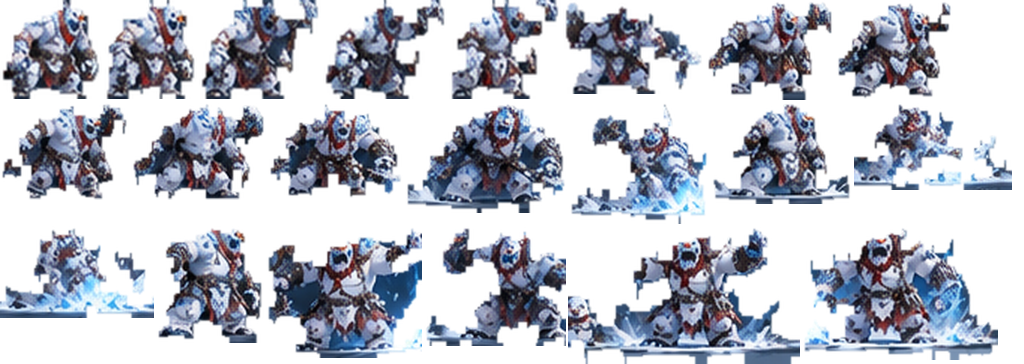
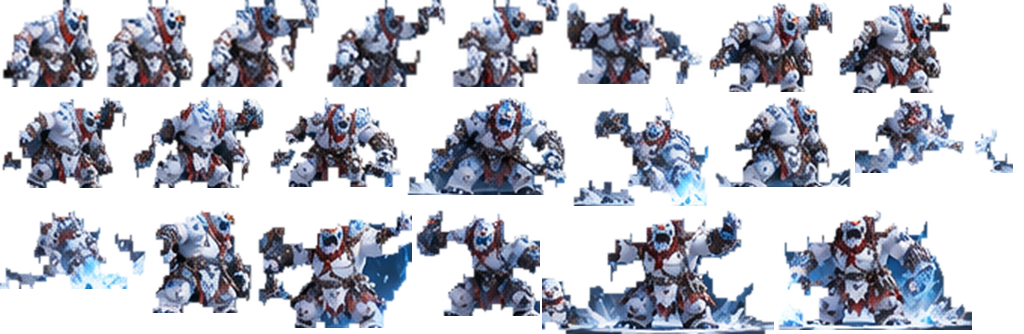
WIP2

diff --git a/assets/snowman_atlas.js b/assets/snowman_atlas.js
@@ -1,2 +1,2 @@
-window.SNOWMAN_ATLAS={"image": "assets/snowman_atlas.png", "source": "ref/snowman_sheet.png", "frames": {"idle_0": {"x": 0, "y": 0, "w": 88, "h": 99, "ax": 33, "ay": 98}, "idle_1": {"x": 90, "y": 0, "w": 96, "h": 93, "ax": 34, "ay": 92}, "idle_2": {"x": 188, "y": 0, "w": 99, "h": 94, "ax": 44, "ay": 93}, "idle_3": {"x": 289, "y": 0, "w": 87, "h": 96, "ax": 38, "ay": 94}, "idle_4": {"x": 378, "y": 0, "w": 104, "h": 94, "ax": 46, "ay": 93}, "idle_5": {"x": 484, "y": 0, "w": 90, "h": 99, "ax": 51, "ay": 98}, "walk_0": {"x": 576, "y": 0, "w": 78, "h": 99, "ax": 42, "ay": 96}, "walk_1": {"x": 656, "y": 0, "w": 93, "h": 110, "ax": 52, "ay": 108}, "walk_2": {"x": 751, "y": 0, "w": 76, "h": 99, "ax": 42, "ay": 96}, "walk_3": {"x": 829, "y": 0, "w": 105, "h": 110, "ax": 63, "ay": 102}, "walk_4": {"x": 0, "y": 112, "w": 92, "h": 100, "ax": 56, "ay": 98}, "walk_5": {"x": 94, "y": 112, "w": 98, "h": 110, "ax": 51, "ay": 108}, "attack_0": {"x": 194, "y": 112, "w": 104, "h": 112, "ax": 50, "ay": 108}, "attack_1": {"x": 300, "y": 112, "w": 146, "h": 114, "ax": 80, "ay": 112}, "throw_0": {"x": 448, "y": 112, "w": 117, "h": 111, "ax": 60, "ay": 110}, "throw_1": {"x": 567, "y": 112, "w": 118, "h": 105, "ax": 66, "ay": 104}, "throw_2": {"x": 687, "y": 112, "w": 120, "h": 105, "ax": 58, "ay": 104}, "throw_3": {"x": 809, "y": 112, "w": 135, "h": 111, "ax": 64, "ay": 110}, "death_0": {"x": 0, "y": 228, "w": 130, "h": 100, "ax": 80, "ay": 96}, "death_1": {"x": 132, "y": 228, "w": 116, "h": 84, "ax": 48, "ay": 82}, "death_2": {"x": 250, "y": 228, "w": 134, "h": 92, "ax": 66, "ay": 86}, "death_3": {"x": 386, "y": 228, "w": 153, "h": 74, "ax": 82, "ay": 68}, "death_4": {"x": 541, "y": 228, "w": 196, "h": 80, "ax": 98, "ay": 78}, "snowball": {"x": 739, "y": 228, "w": 100, "h": 106, "ax": 51, "ay": 54}, "iceblock": {"x": 841, "y": 228, "w": 128, "h": 122, "ax": 62, "ay": 60}}, "anims": {"idle": ["idle_0", "idle_1", "idle_2", "idle_3", "idle_4", "idle_5"], "walk": ["walk_0", "walk_1", "walk_2", "walk_3", "walk_4", "walk_5"], "attack": ["attack_0", "attack_1"], "throw": ["throw_0", "throw_1", "throw_2", "throw_3"], "death": ["death_0", "death_1", "death_2", "death_3", "death_4"], "hurt": ["death_0"]}};
-window.SNOWBOSS_ATLAS={"image": "assets/snowboss_atlas.png", "source": "ref/snowman_sheet.png", "frames": {"idle_0": {"x": 0, "y": 0, "w": 102, "h": 99, "ax": 53, "ay": 97}, "idle_1": {"x": 104, "y": 0, "w": 93, "h": 99, "ax": 46, "ay": 97}, "idle_2": {"x": 199, "y": 0, "w": 122, "h": 99, "ax": 51, "ay": 97}, "idle_3": {"x": 323, "y": 0, "w": 124, "h": 99, "ax": 47, "ay": 97}, "idle_4": {"x": 449, "y": 0, "w": 112, "h": 99, "ax": 44, "ay": 97}, "idle_5": {"x": 563, "y": 0, "w": 141, "h": 94, "ax": 63, "ay": 93}, "walk_0": {"x": 706, "y": 0, "w": 128, "h": 100, "ax": 58, "ay": 99}, "walk_1": {"x": 836, "y": 0, "w": 117, "h": 99, "ax": 54, "ay": 94}, "walk_2": {"x": 0, "y": 102, "w": 129, "h": 98, "ax": 62, "ay": 94}, "walk_3": {"x": 131, "y": 102, "w": 135, "h": 98, "ax": 62, "ay": 94}, "walk_4": {"x": 268, "y": 102, "w": 135, "h": 96, "ax": 69, "ay": 92}, "attack_0": {"x": 405, "y": 102, "w": 162, "h": 111, "ax": 92, "ay": 105}, "attack_1": {"x": 569, "y": 102, "w": 140, "h": 122, "ax": 93, "ay": 116}, "shock_0": {"x": 711, "y": 102, "w": 141, "h": 102, "ax": 70, "ay": 100}, "shock_1": {"x": 854, "y": 102, "w": 158, "h": 88, "ax": 58, "ay": 87}, "shock_2": {"x": 0, "y": 226, "w": 154, "h": 92, "ax": 75, "ay": 90}, "throw_0": {"x": 156, "y": 226, "w": 108, "h": 117, "ax": 58, "ay": 116}, "throw_1": {"x": 266, "y": 226, "w": 156, "h": 132, "ax": 78, "ay": 130}, "throw_2": {"x": 424, "y": 226, "w": 142, "h": 120, "ax": 99, "ay": 118}, "summon_0": {"x": 568, "y": 226, "w": 232, "h": 138, "ax": 117, "ay": 136}, "summon_1": {"x": 802, "y": 226, "w": 196, "h": 134, "ax": 98, "ay": 126}}, "anims": {"idle": ["idle_0", "idle_1", "idle_2", "idle_3", "idle_4", "idle_5"], "walk": ["walk_0", "walk_1", "walk_2", "walk_3", "walk_4"], "attack": ["attack_0", "attack_1"], "shock": ["shock_0", "shock_1", "shock_2"], "throw": ["throw_0", "throw_1", "throw_2"], "summon": ["summon_0", "summon_1"], "hurt": ["shock_0"], "death": ["shock_0"]}};
+window.SNOWMAN_ATLAS={"image": "assets/snowman_atlas.png", "source": "ref/snowman_sheet.png", "frames": {"idle_0": {"x": 0, "y": 0, "w": 88, "h": 99, "ax": 33, "ay": 98}, "idle_1": {"x": 90, "y": 0, "w": 96, "h": 93, "ax": 34, "ay": 92}, "idle_2": {"x": 188, "y": 0, "w": 99, "h": 94, "ax": 44, "ay": 93}, "idle_3": {"x": 289, "y": 0, "w": 87, "h": 96, "ax": 38, "ay": 94}, "idle_4": {"x": 378, "y": 0, "w": 104, "h": 94, "ax": 46, "ay": 93}, "idle_5": {"x": 484, "y": 0, "w": 90, "h": 99, "ax": 51, "ay": 98}, "walk_0": {"x": 576, "y": 0, "w": 78, "h": 99, "ax": 42, "ay": 96}, "walk_1": {"x": 656, "y": 0, "w": 93, "h": 110, "ax": 52, "ay": 108}, "walk_2": {"x": 751, "y": 0, "w": 76, "h": 99, "ax": 42, "ay": 96}, "walk_3": {"x": 829, "y": 0, "w": 105, "h": 110, "ax": 63, "ay": 102}, "walk_4": {"x": 0, "y": 112, "w": 92, "h": 100, "ax": 56, "ay": 98}, "walk_5": {"x": 94, "y": 112, "w": 98, "h": 110, "ax": 51, "ay": 108}, "attack_0": {"x": 194, "y": 112, "w": 104, "h": 112, "ax": 50, "ay": 108}, "attack_1": {"x": 300, "y": 112, "w": 146, "h": 114, "ax": 81, "ay": 112}, "throw_0": {"x": 448, "y": 112, "w": 117, "h": 111, "ax": 62, "ay": 110}, "throw_1": {"x": 567, "y": 112, "w": 118, "h": 105, "ax": 66, "ay": 104}, "throw_2": {"x": 687, "y": 112, "w": 120, "h": 105, "ax": 58, "ay": 104}, "throw_3": {"x": 809, "y": 112, "w": 135, "h": 111, "ax": 64, "ay": 110}, "death_0": {"x": 0, "y": 228, "w": 130, "h": 100, "ax": 80, "ay": 96}, "death_1": {"x": 132, "y": 228, "w": 116, "h": 84, "ax": 48, "ay": 82}, "death_2": {"x": 250, "y": 228, "w": 134, "h": 92, "ax": 66, "ay": 86}, "death_3": {"x": 386, "y": 228, "w": 153, "h": 74, "ax": 82, "ay": 68}, "death_4": {"x": 541, "y": 228, "w": 196, "h": 80, "ax": 98, "ay": 78}, "snowball": {"x": 739, "y": 228, "w": 100, "h": 106, "ax": 51, "ay": 54}, "iceblock": {"x": 841, "y": 228, "w": 128, "h": 122, "ax": 62, "ay": 60}}, "anims": {"idle": ["idle_0", "idle_1", "idle_2", "idle_3", "idle_4", "idle_5"], "walk": ["walk_0", "walk_1", "walk_2", "walk_3", "walk_4", "walk_5"], "attack": ["attack_0", "attack_1"], "throw": ["throw_0", "throw_1", "throw_2", "throw_3"], "death": ["death_0", "death_1", "death_2", "death_3", "death_4"], "hurt": ["death_0"]}};
+window.SNOWBOSS_ATLAS={"image": "assets/snowboss_atlas.png", "source": "ref/snowman_sheet.png", "frames": {"idle_0": {"x": 0, "y": 0, "w": 102, "h": 87, "ax": 53, "ay": 86}, "idle_1": {"x": 104, "y": 0, "w": 92, "h": 87, "ax": 44, "ay": 86}, "idle_2": {"x": 198, "y": 0, "w": 124, "h": 87, "ax": 51, "ay": 86}, "idle_3": {"x": 324, "y": 0, "w": 124, "h": 87, "ax": 47, "ay": 86}, "idle_4": {"x": 450, "y": 0, "w": 112, "h": 87, "ax": 44, "ay": 86}, "idle_5": {"x": 564, "y": 0, "w": 141, "h": 84, "ax": 63, "ay": 82}, "walk_0": {"x": 707, "y": 0, "w": 128, "h": 92, "ax": 57, "ay": 90}, "walk_1": {"x": 837, "y": 0, "w": 117, "h": 93, "ax": 54, "ay": 92}, "walk_2": {"x": 0, "y": 95, "w": 129, "h": 93, "ax": 62, "ay": 92}, "walk_3": {"x": 131, "y": 95, "w": 135, "h": 93, "ax": 68, "ay": 92}, "walk_4": {"x": 268, "y": 95, "w": 135, "h": 92, "ax": 70, "ay": 90}, "attack_0": {"x": 405, "y": 95, "w": 164, "h": 100, "ax": 90, "ay": 99}, "attack_1": {"x": 571, "y": 95, "w": 140, "h": 111, "ax": 92, "ay": 110}, "shock_0": {"x": 713, "y": 95, "w": 140, "h": 92, "ax": 70, "ay": 90}, "shock_1": {"x": 855, "y": 95, "w": 158, "h": 78, "ax": 64, "ay": 76}, "shock_2": {"x": 0, "y": 208, "w": 148, "h": 81, "ax": 76, "ay": 80}, "throw_0": {"x": 150, "y": 208, "w": 104, "h": 105, "ax": 54, "ay": 104}, "throw_1": {"x": 256, "y": 208, "w": 156, "h": 120, "ax": 86, "ay": 118}, "throw_2": {"x": 414, "y": 208, "w": 126, "h": 108, "ax": 82, "ay": 106}, "summon_0": {"x": 542, "y": 208, "w": 232, "h": 126, "ax": 118, "ay": 124}, "summon_1": {"x": 776, "y": 208, "w": 196, "h": 122, "ax": 93, "ay": 120}}, "anims": {"idle": ["idle_0", "idle_1", "idle_2", "idle_3", "idle_4", "idle_5"], "walk": ["walk_0", "walk_1", "walk_2", "walk_3", "walk_4"], "attack": ["attack_0", "attack_1"], "shock": ["shock_0", "shock_1", "shock_2"], "throw": ["throw_0", "throw_1", "throw_2"], "summon": ["summon_0", "summon_1"], "hurt": ["shock_0"], "death": ["shock_0"]}};

diff --git a/ref/snow3.py b/ref/snow3.py
@@ -1,0 +1,81 @@
+import sys;sys.path.insert(0,'/workspace/sp')
+from snow2 import *
+CELLS={
+ 'm':{'idle':[(108,171),(189,263),(279,351),(367,440),(460,540),(560,627)],'_y_idle':(616,682),
+      'walk':[(92,161),(186,257),(280,354),(358,437),(453,528),(561,634)],'_y_walk':(684,757),
+      'attack':[(124,212),(470,575)],'_y_attack':(762,843),
+      'throw':[(108,190),(193,283),(283,368),(368,462)],'_y_throw':(850,924),
+      'death':[(132,224),(232,320),(320,420),(420,532),(536,686)],'_y_death':(930,1000)},
+ 'b':{'idle':[(838,917),(938,1007),(1023,1112),(1108,1192),(1196,1274),(1273,1370)],'_y_idle':(517,567),
+      'walk':[(832,930),(930,1019),(1020,1112),(1240,1337),(1338,1440)],'_y_walk':(575,643),
+      'attack':[(1235,1355),(1355,1480)],'_y_attack':(650,726),
+      'shock':[(945,1060),(1060,1165),(1165,1268)],'_y_shock':(734,805),
+      'throw':[(835,927),(925,1032),(1030,1140)],'_y_throw':(814,902),
+      'summon':[(995,1150),(1158,1305)],'_y_summon':(912,1002)}}
+FXS={'snowball':(330,405,470,548),'iceblock':(215,310,460,550)}
+FXCUT=55;KF=150;KB=170
+def extract(x0,x1,y0,y1,keepfx=False):
+  crop,m,dist,fx=seg(x0,x1,y0,y1,999 if keepfx else FXCUT)
+  if keepfx:
+    L=crop.mean(2);m=((L>KF)|(crop[...,2]>KB)).astype(np.uint8);m=cv2.morphologyEx(m,cv2.MORPH_OPEN,np.ones((2,2),np.uint8));m=cv2.morphologyEx(m,cv2.MORPH_CLOSE,np.ones((5,5),np.uint8))
+    inv=(1-m).astype(np.uint8);n,lab=cv2.connectedComponents(inv);border=np.unique(np.concatenate([lab[0],lab[-1],lab[:,0],lab[:,-1]]));m[(inv==1)&~np.isin(lab,border)]=1
+  else:
+    m=m&cv2.morphologyEx(m,cv2.MORPH_OPEN,np.ones((5,1),np.uint8))
+    fill=((m>0)&~((dist>32)&~fx)&(dist<20)).astype(np.uint8)
+    n2,l2,st2,_=cv2.connectedComponentsWithStats(fill)
+    for i in range(1,n2):
+      if st2[i][4]>90:m[l2==i]=0
+  n,lab,st,_=cv2.connectedComponentsWithStats(m)
+  if n<2:return None
+  big=max(range(1,n),key=lambda i:st[i][4])
+  keep=np.isin(lab,[i for i in range(1,n) if i==big or st[i][4]>(.02 if keepfx else .05)*st[big][4]])
+  al=keep.astype(np.float32);al=cv2.erode(al,np.ones((2,2),np.uint8));al=cv2.GaussianBlur(al,(3,3),.6)
+  inner=cv2.erode(keep.astype(np.uint8),np.ones((3,3),np.uint8));bl=cv2.blur(crop*inner[...,None],(5,5));wb=cv2.blur(inner.astype(np.float32),(5,5))
+  col=crop.copy();edge=(al>0)&(inner==0)&(wb>.05);col[edge]=bl[edge]/wb[edge][:,None]*.6+crop[edge]*.4
+  ys,xs=np.where(al>.5);top,foot=ys.min(),ys.max();lx,rx=xs.min(),xs.max();hh=foot-top
+  mid=xs[(ys>top+.35*hh)&(ys<top+.75*hh)];cx=int(np.median(mid))
+  if keepfx:cx=(lx+rx)//2
+  # foot: lowest row with substantial mass (ignore flecks)
+  rows=(al>.5).sum(1);fr=np.where(rows>max(3,.15*rows.max()))[0];foot2=fr.max()
+  if keepfx:foot2=(top+foot)//2
+  T,Bt,Lx,Rx=max(0,top-2),min(al.shape[0],foot+2),max(0,lx-2),min(al.shape[1],rx+3)
+  rgba=np.dstack([col,al*255]).astype(np.uint8)[T:Bt,Lx:Rx]
+  return rgba,cx-Lx,foot2-T
+def build(key,name,scale=1.0):
+  frames={};anims={};imgs=[]
+  C=CELLS[key]
+  for an,lst in C.items():
+    if an.startswith('_'):continue
+    y0,y1=C['_y_'+an]
+    for i,(a,b) in enumerate(lst):
+      r=extract(a,b,y0,y1);
+      if r is None:continue
+      if key=='b' and an=='idle':
+        t=Image.fromarray(r[0]);k=1.17;t=t.resize((round(t.width*k),round(t.height*k)),Image.LANCZOS);r=(np.array(t),r[1]*k,r[2]*k)
+      imgs.append((f'{an}_{i}',)+r);anims.setdefault(an,[]).append(f'{an}_{i}')
+  for k,(a,b,y0,y1) in FXS.items():
+    if key=='m':
+      r=extract(a,b,y0,y1,keepfx=True);imgs.append((k,)+r)
+  W=1024;x=y=rowh=0;pos=[]
+  for k,img,ax,ay in imgs:
+    t=Image.fromarray(img)
+    if scale!=1:t=t.resize((round(t.width*scale),round(t.height*scale)),Image.LANCZOS);ax*=scale;ay*=scale
+    if x+t.width+2>W:x=0;y+=rowh+2;rowh=0
+    pos.append((t,x,y));frames[k]=dict(x=x,y=y,w=t.width,h=t.height,ax=int(round(ax)),ay=int(round(ay)));x+=t.width+2;rowh=max(rowh,t.height)
+  at=Image.new('RGBA',(W,y+rowh));[at.paste(t,(x,y)) for t,x,y in pos]
+  at.save(f'/workspace/game/assets/{name}_atlas.png',optimize=True)
+  return {'image':f'assets/{name}_atlas.png','source':'ref/snowman_sheet.png','frames':frames,'anims':anims}
+if __name__=='__main__':
+  A=build('m','snowman',1.5);Bo=build('b','snowboss',1.5)
+  A['anims']['hurt']=['death_0'];Bo['anims']['hurt']=['shock_0'];Bo['anims']['death']=['shock_0','summon_1'][:1]
+  json.dump(A,open('/workspace/game/assets/snowman_atlas.json','w'));json.dump(Bo,open('/workspace/game/assets/snowboss_atlas.json','w'))
+  open('/workspace/game/assets/snowman_atlas.js','w').write('window.SNOWMAN_ATLAS='+json.dumps(A)+';\nwindow.SNOWBOSS_ATLAS='+json.dumps(Bo)+';\n')
+  # contact
+  for nm,D in (('snowman',A),('snowboss',Bo)):
+    at=Image.open(f'/workspace/game/assets/{nm}_atlas.png');ks=list(D['frames']);cw,ch=200,190;cols=8
+    o=Image.new('RGB',(cw*cols,ch*((len(ks)+cols-1)//cols)),(255,0,255));dr=ImageDraw.Draw(o)
+    for i,k in enumerate(ks):
+      f=D['frames'][k];t=at.crop((f['x'],f['y'],f['x']+f['w'],f['y']+f['h']));X,Y=(i%cols)*cw,(i//cols)*ch
+      o.paste(t,(X+cw//2-f['ax'],Y+ch-10-f['ay']),t);dr.text((X+2,Y+2),k,fill='white');dr.line([(X+cw//2-6,Y+ch-10),(X+cw//2+6,Y+ch-10)],fill=(0,255,0))
+    o.save(f'/workspace/sp/{nm}_contact.png')
+  print({k:len(v) for k,v in A['anims'].items()},{k:len(v) for k,v in Bo['anims'].items()})

diff --git a/ref/hero2.py b/ref/hero2.py
@@ -1,0 +1,74 @@
+from PIL import Image,ImageDraw;import numpy as np,cv2,json
+im=np.array(Image.open('/workspace/game/ref/hero_sheet.png').convert('RGB')).astype(np.float32)
+v=im.max(2);dark=(v<100).astype(np.uint8)
+for hy in (388,538,686,846): dark[hy-16:hy+16,0:215]=0
+dark[:,0:14]=0;dark[:,1505:]=0
+bands={'move':(384,505),'atk':(540,648),'skill':(684,800),'special':(836,980)}
+# (band, x0, x1, count, names)
+G=[('move',52,134,1,['idle_0']),('move',196,277,1,['idle_1']),('move',315,565,4,['walk_0','walk_1','walk_2','walk_3']),('move',571,772,3,['run_0','run_1','run_2']),
+ ('move',801,869,1,['jump_0']),('move',884,960,1,['jump_1']),('move',974,1055,1,['jump_2']),('move',1087,1196,1,['turn_0']),('move',1203,1303,1,['turn_1']),('move',1311,1390,1,['turn_2']),
+ ('atk',27,279,3,['atk1_0','atk1_1','atk1_2']),('atk',315,544,3,['atk2_0','atk2_1','atk2_2']),('atk',602,839,3,['atk3_0','atk3_1','atk3_2']),('atk',892,1158,3,['atk4_0','atk4_1','atk4_2']),('atk',1195,1431,3,['atk5_0','atk5_1','atk5_2']),
+ ('skill',37,239,[107,183],['thrust_0','thrust_1','thrust_2']),('skill',282,455,[360,410],['hslash_0','hslash_1','hslash_2']),('skill',486,623,[580],['upslash_0','upslash_1']),('skill',668,755,1,['downslash_0']),
+ ('skill',828,1049,[919,985],['spin_0','spin_1','spin_2']),('skill',1262,1340,1,['wavecast_0']),
+ ('special',15,212,2,['dodge_0','dodge_1']),('special',245,403,2,['block_0','block_1']),('special',472,564,1,['charge_0']),('special',776,884,1,['ult_0']),
+ ('special',1072,1252,2,['hurt_0','hurt_1']),('special',1258,1351,1,['down_0']),('special',1364,1495,1,['down_1'])]
+bg=np.median(im[300:380,1000:1400].reshape(-1,3),0)
+out={}
+for band,x0,x1,k,names in G:
+  y0,y1=bands[band];D=dark[y0:y1]
+  # body profile (exclude top 30% of band where swords/arcs less) use full dark
+  prof=cv2.GaussianBlur(D[:,:].sum(0).astype(np.float32).reshape(1,-1),(15,1),0).ravel()
+  cuts=[x0]
+  cs=k if isinstance(k,list) else [x0+(x1-x0)*j//k for j in range(1,k)]
+  for c in cs:
+    lo,hi=c-14,c+14;cuts.append(lo+int(np.argmin(prof[lo:hi])))
+  cuts.append(x1)
+  for j,nm in enumerate(names):
+    a,b=cuts[j],cuts[j+1];pad=6
+    L=max(0,a-pad);R=min(im.shape[1],b+pad)
+    d=D[:,L:R].copy()
+    # exclude neighbours: zero outside [a,b] strictly
+    d[:,:a-L]=0;d[:,b-L:]=0
+    crop=im[y0:y1,L:R]
+    r,g,bb=crop[...,0],crop[...,1],crop[...,2];lum=crop.mean(2);sat=crop.max(2)-crop.min(2)
+    # local bg per column: median of low-sat mid-lum pixels in band
+    cand=(sat<14)&(lum>120)&(lum<185)
+    bgc=np.array([np.median(crop[cand[:,i],i],0) if cand[:,i].sum()>8 else bg for i in range(crop.shape[1])])
+    bgc=cv2.GaussianBlur(bgc.reshape(1,-1,3).astype(np.float32),(21,1),0).reshape(-1,3)
+    dist=np.sqrt(((crop-bgc[None])**2).sum(2))
+    fx=(bb-r>38)&(lum>140)            # blue slash fx
+    shadow=(sat<16)&(lum>95)&(lum<bgc.mean(1)[None]+12)
+    fg=((dist>26)&~fx&~shadow)|(d>0)
+    near=cv2.dilate(d,np.ones((9,9),np.uint8))>0
+    m=(fg&near).astype(np.uint8);m[:,:a-L]=0;m[:,b-L:]=0
+    m=cv2.morphologyEx(m,cv2.MORPH_OPEN,np.ones((2,2),np.uint8))
+    m=cv2.morphologyEx(m,cv2.MORPH_CLOSE,np.ones((3,3),np.uint8))
+    n,lab,st,_=cv2.connectedComponentsWithStats(m)
+    big=max(range(1,n),key=lambda i:st[i][4])
+    keep=np.isin(lab,[i for i in range(1,n) if i==big or st[i][4]>.06*st[big][4]])
+    dk=(d>0)&keep;dys=np.where(dk.any(1))[0];dfoot=dys.max()
+    dust=(lum>170)&(sat<40)&(np.arange(keep.shape[0])[:,None]>dfoot-6)
+    keep=keep&~dust;keep[dfoot+3:]=False
+    al=keep.astype(np.float32)
+    al=cv2.erode(al,np.ones((2,2),np.uint8),iterations=1)
+    al=cv2.GaussianBlur(al,(3,3),0.6)
+    # defringe: edge pixels take colour of nearest interior pixel (darken halo)
+    inner=cv2.erode(keep.astype(np.uint8),np.ones((3,3),np.uint8))
+    blur=cv2.blur(crop*inner[...,None],(5,5));wb=cv2.blur(inner.astype(np.float32),(5,5))
+    col=crop.copy();edge=(al>0)&(inner==0)&(wb>0.05)
+    col[edge]=(blur[edge]/wb[edge][:,None])*0.6+crop[edge]*0.4
+    ys,xs=np.where(al>.5);top=ys.min();foot=dfoot;lx,rx=xs.min(),xs.max()
+    hh=foot-top;low=xs[(ys>top+.4*hh)&(ys<top+.7*hh)];cx=int(np.median(low))
+    rgba=np.dstack([col,al*255]).astype(np.uint8)[max(0,top-2):foot+2,max(0,lx-2):rx+3]
+    out[nm]={'img':rgba,'ax':cx-max(0,lx-2),'ay':foot-max(0,top-2),'h':foot-top}
+    Image.fromarray(rgba).save(f'/workspace/sp/h2/{nm}.png')
+json.dump({k:{kk:int(vv) for kk,vv in v.items() if kk!='img'} for k,v in out.items()},open('/workspace/sp/h2/meta.json','w'),indent=0)
+# contact
+cw,ch=150,150;ks=list(out);cols=10;rows=(len(ks)+cols-1)//cols
+o=Image.new('RGB',(cw*cols,ch*rows),(255,0,255));dr=ImageDraw.Draw(o)
+for i,kk in enumerate(ks):
+  f=out[kk];t=Image.fromarray(f['img']);x,y=(i%cols)*cw,(i//cols)*ch
+  ox=x+cw//2-f['ax'];oy=y+ch-8-f['ay'];bgp=Image.new('RGBA',o.size,(0,0,0,0));bgp.paste(t,(ox,oy));o.paste(bgp.convert('RGB'),(0,0),bgp)
+  dr.text((x+2,y+2),kk,fill='white');dr.line([(x+cw//2-5,y+ch-8),(x+cw//2+5,y+ch-8)],fill=(0,255,0))
+o.save('/workspace/sp/h2_contact.png')
+print({k:(v['h'],v['img'].shape[1]) for k,v in out.items()})

diff --git a/ref/snow2.py b/ref/snow2.py
@@ -1,0 +1,35 @@
+from PIL import Image,ImageDraw;import numpy as np,cv2,json
+im=np.array(Image.open('/workspace/game/ref/snowman_sheet.png').convert('RGB')).astype(np.float32)
+lum=im.mean(2);R,Gc,B=im[...,0],im[...,1],im[...,2]
+BANDS={'m_idle':(94,700,612,682),'m_walk':(94,700,684,757),'m_melee':(94,700,762,843),'m_throw':(94,700,850,924),'m_die':(94,700,930,1000),
+ 'b_idle':(825,1525,510,572),'b_walk':(825,1525,575,648),'b_melee':(825,1525,650,732),'b_shock':(825,1525,734,812),'b_throw':(825,1525,814,910),'b_summon':(825,1525,912,1010)}
+def seg(x0,x1,y0,y1,fxcut=55):
+  crop=im[y0:y1,x0:x1];L=lum[y0:y1,x0:x1]
+  bgr=np.array([np.median(crop[i][L[i]<75],0) if (L[i]<75).sum()>20 else np.array([35,50,70]) for i in range(crop.shape[0])])
+  bgr=cv2.GaussianBlur(bgr.reshape(-1,1,3).astype(np.float32),(1,9),0).reshape(-1,3)
+  dist=np.sqrt(((crop-bgr[:,None])**2).sum(2))
+  fx=((B-R)[y0:y1,x0:x1]>fxcut)&(L>110)
+  fg=(dist>32)&~fx
+  m=cv2.morphologyEx(fg.astype(np.uint8),cv2.MORPH_OPEN,np.ones((2,2),np.uint8))
+  m=cv2.morphologyEx(m,cv2.MORPH_CLOSE,np.ones((5,5),np.uint8))
+  inv=(1-m).astype(np.uint8);n,lab=cv2.connectedComponents(inv);border=np.unique(np.concatenate([lab[0],lab[-1],lab[:,0],lab[:,-1]]))
+  m[(inv==1)&~np.isin(lab,border)]=1
+  return crop,m,dist,fx
+def groups(m,minw=12,gap=3):
+  col=m.sum(0)>2;col=cv2.dilate(col.astype(np.uint8).reshape(1,-1),np.ones((1,gap),np.uint8)).ravel()>0
+  gs=[];s=None
+  for x,c in enumerate(list(col)+[False]):
+    if c and s is None:s=x
+    if not c and s is not None:
+      if x-s>=minw:gs.append((s,x))
+      s=None
+  return gs
+if __name__=='__main__':
+  out=Image.new('RGB',(1400,11*110),(255,0,255));d=ImageDraw.Draw(out)
+  for bi,(nm,(x0,x1,y0,y1)) in enumerate(BANDS.items()):
+    crop,m,_,_=seg(x0,x1,y0,y1);gs=groups(m)
+    print(nm,[(a+x0,b+x0) for a,b in gs])
+    rgba=np.dstack([crop,m*255]).astype(np.uint8);t=Image.fromarray(rgba)
+    out.paste(t,(0,bi*110),t);out.paste(Image.fromarray(crop.astype(np.uint8)),(710,bi*110))
+    for i,(a,b) in enumerate(gs):d.rectangle([a,bi*110,b,bi*110+(y1-y0)],outline=(0,255,0));d.text((a+1,bi*110+1),str(i),fill='yellow')
+  out.save('/workspace/sp/sn_seg.png')

diff --git a/ref/pack_hero.py b/ref/pack_hero.py
@@ -1,0 +1,20 @@
+import json
+from PIL import Image
+meta=json.load(open('/workspace/sp/h2/meta.json'))
+old=json.load(open('/workspace/sp/hero_atlas_old.json'));oim=Image.open('/workspace/sp/hero_atlas_old.png')
+items=[(k,Image.open(f'/workspace/sp/h2/{k}.png'),meta[k]['ax'],meta[k]['ay']) for k in meta]
+for k in ['fx_sword','fx_wave','portrait']:
+  f=old['frames'][k];items.append((k,oim.crop((f['x'],f['y'],f['x']+f['w'],f['y']+f['h'])),f['ax'],f['ay']))
+W=1024;x=y=0;rowh=0;frames={};pos=[]
+for k,im,ax,ay in items:
+  if x+im.width+2>W:x=0;y+=rowh+2;rowh=0
+  pos.append((k,im,x,y));frames[k]=dict(x=x,y=y,w=im.width,h=im.height,ax=int(ax),ay=int(ay));x+=im.width+2;rowh=max(rowh,im.height)
+H=y+rowh;at=Image.new('RGBA',(W,H),(0,0,0,0))
+for k,im,x,y in pos:at.paste(im.convert('RGBA'),(x,y))
+at.save('/workspace/game/assets/hero_atlas.png',optimize=True)
+anims={}
+for k in meta:
+  a,i=k.rsplit('_',1);anims.setdefault(a,[]).append(k)
+d={'image':'assets/hero_atlas.png','source':'ref/hero_sheet.png','frames':frames,'anims':anims}
+json.dump(d,open('/workspace/game/assets/hero_atlas.json','w'))
+open('/workspace/game/assets/hero_atlas.js','w').write('window.HERO_ATLAS='+json.dumps(d)+';\n')

diff --git a/docs/关卡设计.md b/docs/关卡设计.md
@@ -7,7 +7,7 @@
 | 关 | 名称 | 主题 | 难度系数 | 精英 | 首领 | 掉落 / 奖励 |
 |---|---|---|---|---|---|---|
 | 1 | 暗夜森林 | 森林 | 1.0 | 哥布林队长（4 波） | 哥布林酋长（2 阶段） | — |
-| 2 | 雪岭寒关 | 雪山 | 1.35 | 雪怪首领（4 只 / 3 波） | 大雪怪（3 阶段） | — |
+| 2 | 雪岭寒关 | 雪山 | 1.35 | 冰甲雪人（4 波） | 大雪人（3 阶段） | — |
 | 3 | 熔岩火山 | 火山 | 1.75 | 岩甲巨像（3 波） | 焰魔王·赤烎（3 阶段） | 烈炎剑 + 经验 300 |
 | 4 | 溪谷森林 | 溪谷 | 2.2 | 大哥布林副将（4 波） | 哥布林大王（3 阶段） | 护甲 + 经验 250 |
 | 5 | 黑夜古堡（FINAL） | 古堡 | 2.7 | 巨蝠（4 波）、残影大王 | 吸血伯爵（3 阶段） | 通关结局 + 解锁 NG+ |
@@ -34,19 +34,21 @@
 
 - 背景：`assets/bg/stage2_far.jpg`，飘雪。第 7 波起随机落下冰锥（预警圈）。
 - 抗性：**冰伤 ×0.5（冰抗），火伤 ×1.5（火弱）**——推荐火系法术。
-- 敌人（全部为雪怪系，程序绘制：粗描边、白色毛皮、蓝色脸）：
-  - **小雪怪**：体型小、移动快，成群扑咬。
-  - **雪怪**：标准近战，偶尔重砸。
-  - **投雪雪怪**：保持距离，抛出**弧线雪球**——地面先出现落点阴影，落地溅射伤害。
-  - **雪怪首领**（精英）：头生双角，重甲，重砸后露出「破绽」。
-- 波次（18 波）：小雪怪 / 雪怪 / 投雪雪怪混编，第 6、10、14、18 波为精英波；第 3、7、11、15 波后有女巫。
-- **首领 · 大雪怪**（HP 1700，背生冰晶、双角）
-  - 招牌技：**远程弧线雪球**——举手抛出巨大雪球，落点处地面阴影逐渐扩大，落地溅射。
-  - **捶地冲击波**：双臂高举后砸地，三圈冲击波向外扩散（跳起躲避）。
-  - **滚动巨雪球**：从屏幕一侧滚过玩家所在纵深（跳起或换行躲避）。
-  - 阶段 1：雪球、捶地、巨雪球
-  - 阶段 2（60%）：增加**召唤小雪怪** ——「大雪怪捶胸怒吼，小雪怪蜂拥而来！」
-  - 阶段 3（25%，狂暴）：**暴风雪弹幕**（10 连抛雪球）+ 巨雪球 + 捶地 ——「暴风雪降临！」
+- 美术：`ref/snowman_sheet.png` 切图（左侧「雪人怪物」→ `assets/snowman_atlas.png`，右侧「大雪人BOSS」→ `assets/snowboss_atlas.png`）。切图时每帧只保留一个角色（去除斩击光弧、相邻帧残片），去灰边，统一脚底锚点与比例。
+- 敌人（全部为雪人系，红围巾、木棒）：
+  - **小雪人**：缩小版雪人，移动快，成群扑来（行走动画加速）。
+  - **木棒雪人**：标准近战（「攻击(近战)」行：举棒蓄力 → 挥击），偶尔重砸。
+  - **雪球雪人**：保持距离，播放「投掷雪球」行动画，抛出**弧线雪球**（雪球精灵）——地面先出现落点阴影，落地溅射伤害。
+  - **冰甲雪人**（精英）：体型 ×1.6，冰蓝色调 + 寒气光晕，重甲，重砸后露出「破绽」。
+- 波次（18 波）：小雪人 / 木棒雪人 / 雪球雪人混编，第 6、10、14、18 波为精英波；第 3、7、11、15 波后有女巫。
+- **首领 · 大雪人**（HP 1700，冰刺背甲、锁链冰锤）——招式与图集行对应：
+  - **近战锤击**（近战攻击行）：举锤 → 砸下，前方近距离重击并溅起冰屑。
+  - **冰雪冲击波**（冰雪冲击波行）：举锤蓄力（脚下寒光渐亮）后砸地，三圈带冰刺的冲击波向外扩散（跳起躲避）。
+  - **投掷冰石**（投掷巨石行）：抛出巨大冰石（冰块精灵），落点地面阴影逐渐扩大，落地溅射。
+  - **滚动巨雪球**：挥锤击出巨雪球，从屏幕一侧滚过玩家所在纵深（跳起或换行躲避）。
+  - 阶段 1：锤击、冰石、冲击波、巨雪球
+  - 阶段 2（60%）：增加**召唤小雪人**（召唤小雪人行）——「大雪人举锤怒吼，小雪人蜂拥而来！」
+  - 阶段 3（25%，狂暴）：**暴风雪弹幕**（10 连抛，冰石与雪球混合）+ 锤击 + 冲击波 + 巨雪球 ——「暴风雪降临！冰石如雨！」
 
 ## 3. 第三关 · 熔岩火山
 

diff --git a/README.md b/README.md
@@ -42,7 +42,7 @@ iOS Safari 可「添加到主屏幕」全屏游玩；首次触摸后启用音频
 | 关 | 名称 | 首领 | 特色 |
 |---|---|---|---|
 | 1 | 暗夜森林 | 哥布林酋长 | 入门，哥布林刀盾 / 长矛兵 |
-| 2 | 雪岭寒关 | 大雪怪 | 小雪怪 / 雪怪 / 投雪雪怪 / 雪怪首领；弧线雪球、捶地冲击波、滚动巨雪球；火弱冰抗 |
+| 2 | 雪岭寒关 | 大雪人 | 小雪人 / 木棒雪人 / 雪球雪人 / 冰甲雪人（`ref/snowman_sheet.png` 精灵）；锤击、冰雪冲击波、投掷冰石、滚动巨雪球、召唤小雪人；火弱冰抗 |
 | 3 | 熔岩火山 | 焰魔王·赤烎 | 地裂喷发、陨石、熔岩桥；掉落烈炎剑 |
 | 4 | 溪谷森林 | 哥布林大王 | 弓手、跳斩手、木桥、浅溪，战旗 |
 | 5 | 黑夜古堡（FINAL） | 吸血伯爵 | 蝙蝠 / 巨蝠、残影大王重战、王座大厅、血月；通关解锁 NG+ |
@@ -51,7 +51,7 @@ iOS Safari 可「添加到主屏幕」全屏游玩；首次触摸后启用音频
 
 ## 系统
 
-- **主角**：青衣剑客精灵（`ref/hero_sheet.png` 切图打包为 `assets/hero_atlas.png`），动画：待机、走、跑、跳、转身、五段连斩、突刺、横斩、升斩、下劈、旋风斩、剑气、闪避、格挡、蓄力、终结技、受击、倒地。
+- **主角**：青衣剑客精灵（`ref/hero_sheet.png` 切图打包为 `assets/hero_atlas.png`），动画：待机、走、跑、跳、转身、五段连斩、突刺、横斩、升斩、下劈、旋风斩、剑气、闪避、格挡、蓄力、终结技、受击、倒地。切图脚本保证每帧只有一个人物（去除残影 / 斩击光弧 / 相邻帧残片、去灰边），所有帧统一脚底锚点与比例；动画帧率约为旧版 1.6–1.9 倍，攻击可在收招阶段输入缓冲接下一段，帧数少的动作带挤压 / 位移补间，缩放绘制开启平滑。
 - **掉落**：金币、魔法瓶、利剑（攻击 +）、护甲（防御 +）；精英与首领必掉。
 - **体力 / 终结技**：命中或受伤积累体力，满后按 L 释放「万剑归宗」——飞剑雨锁定屏内每个敌人。
 - **魔法**：击杀获得经验，在女巫处学习火 / 冰 / 雷三系共 16 个法术（同系按顺序），施放消耗魔法瓶。特效来自 `ref/magic_sheet.png`。
@@ -68,5 +68,6 @@ iOS Safari 可「添加到主屏幕」全屏游玩；首次触摸后启用音频
 - `assets/` — 精灵图集（主角、哥布林、大哥布林、蝙蝠、吸血伯爵、法术特效）与各关远景
 - `ref/` — 原始美术参考图
 - `docs/关卡设计.md` — 关卡设计文档
-- `screenshot_stage2_boss.png` — 第二关大雪怪首领战截图
+- `screenshot_stage2_boss.png` — 第二关大雪人首领战截图
+- `screenshot_anim_check.png` — 主角行走 + 连斩逐帧接触表（检查无重影）
 - `test_playwright.js` / `test_mobile.js` — 无头浏览器测试（开发用，需 `npm i playwright-core` 与本机 Chrome）
